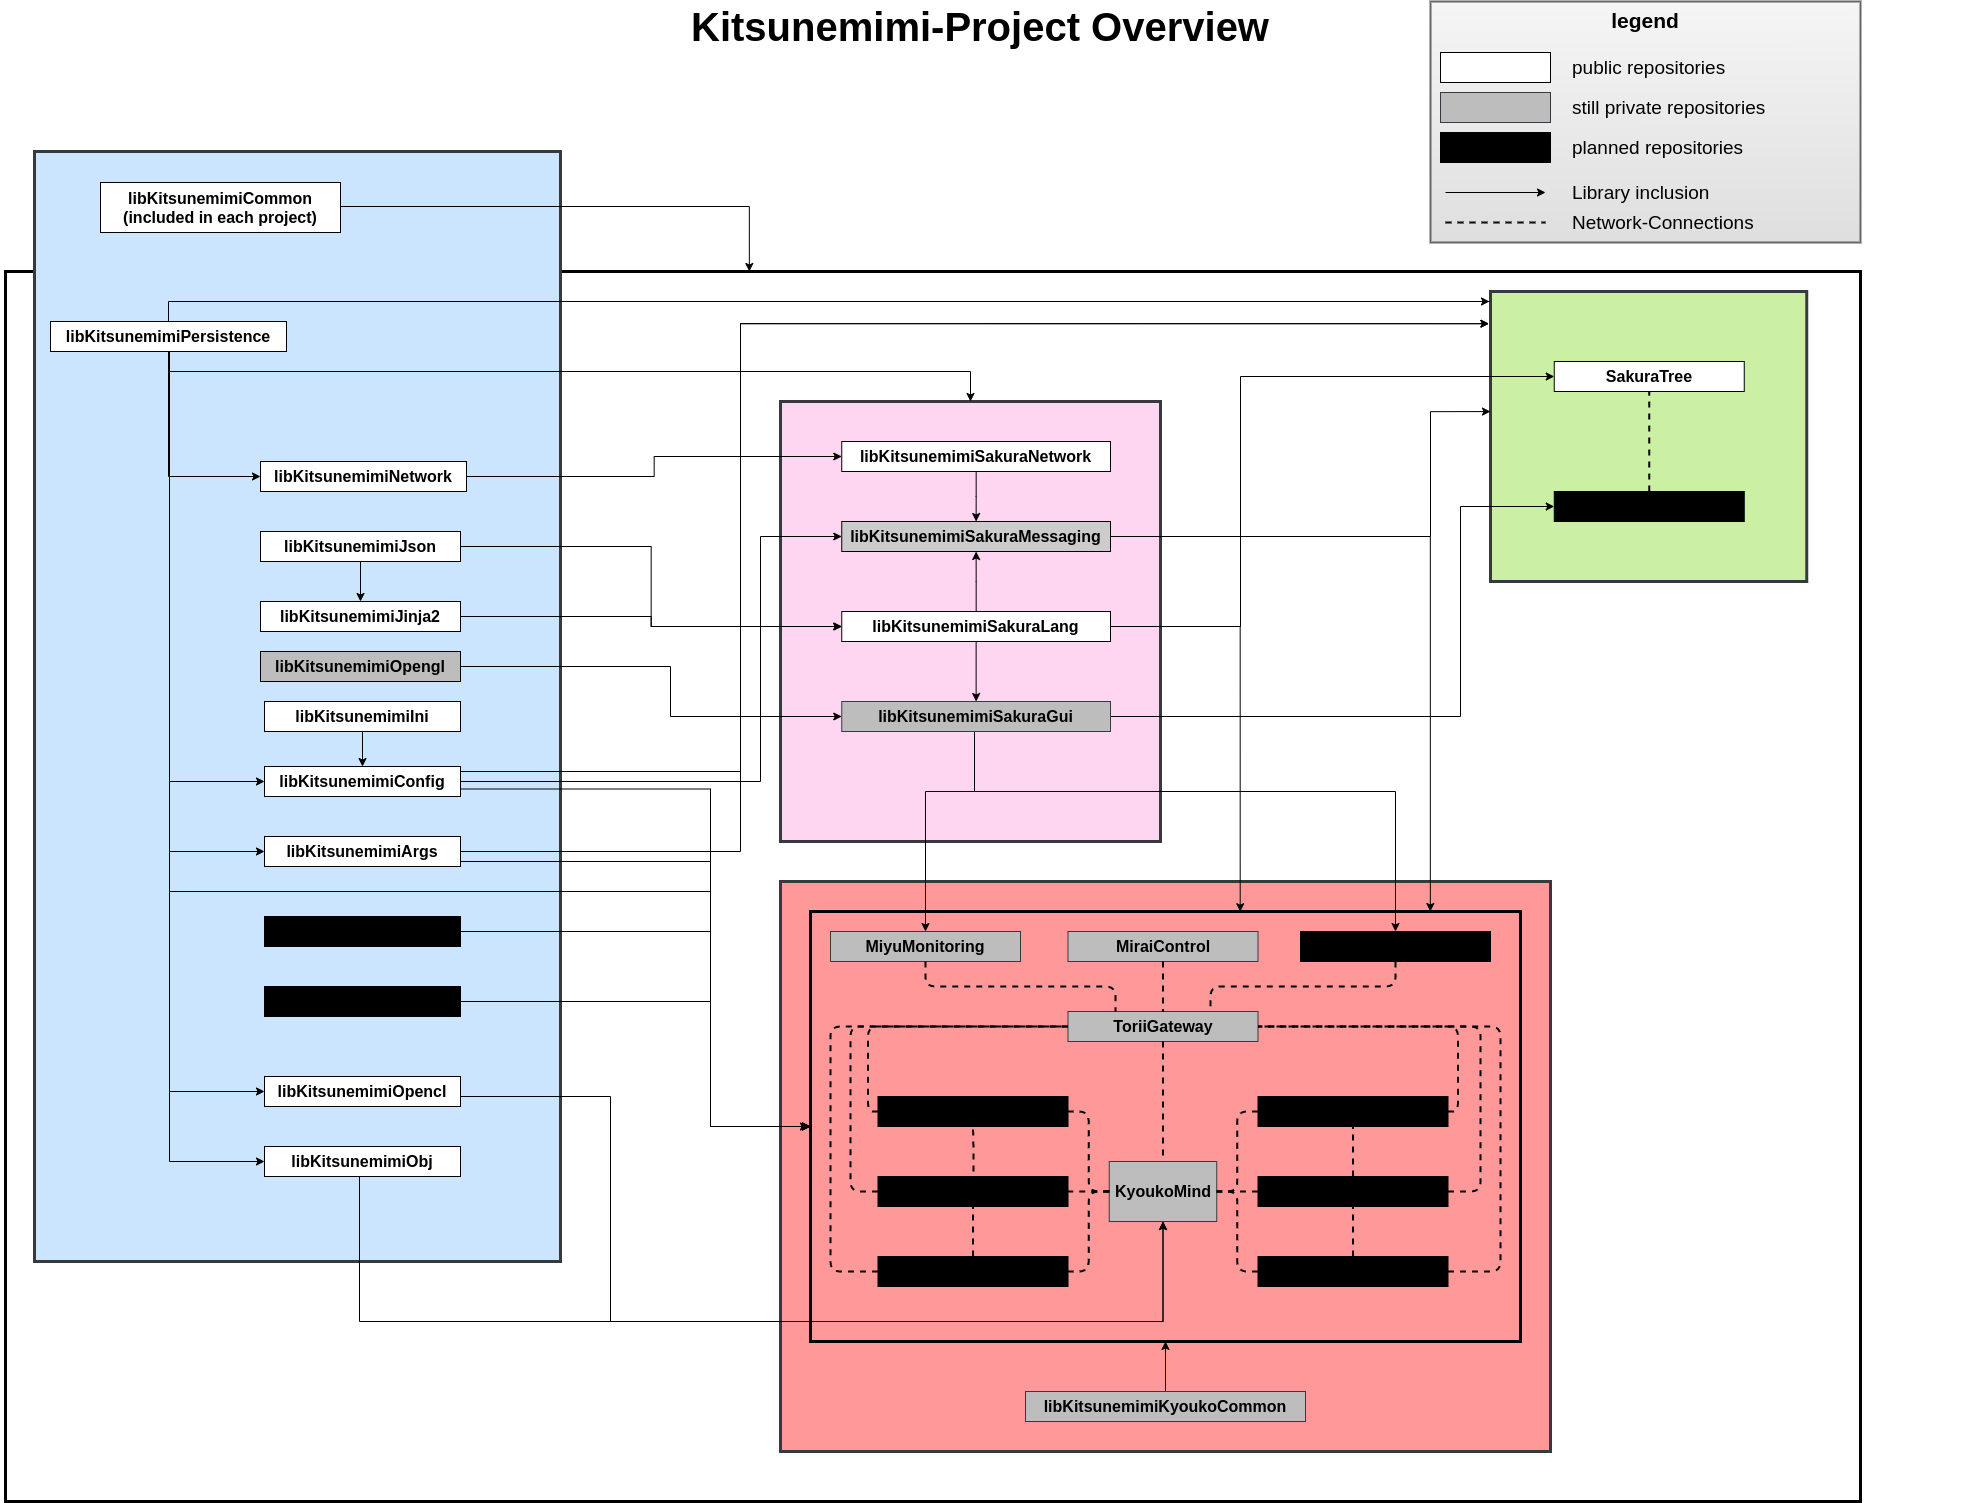
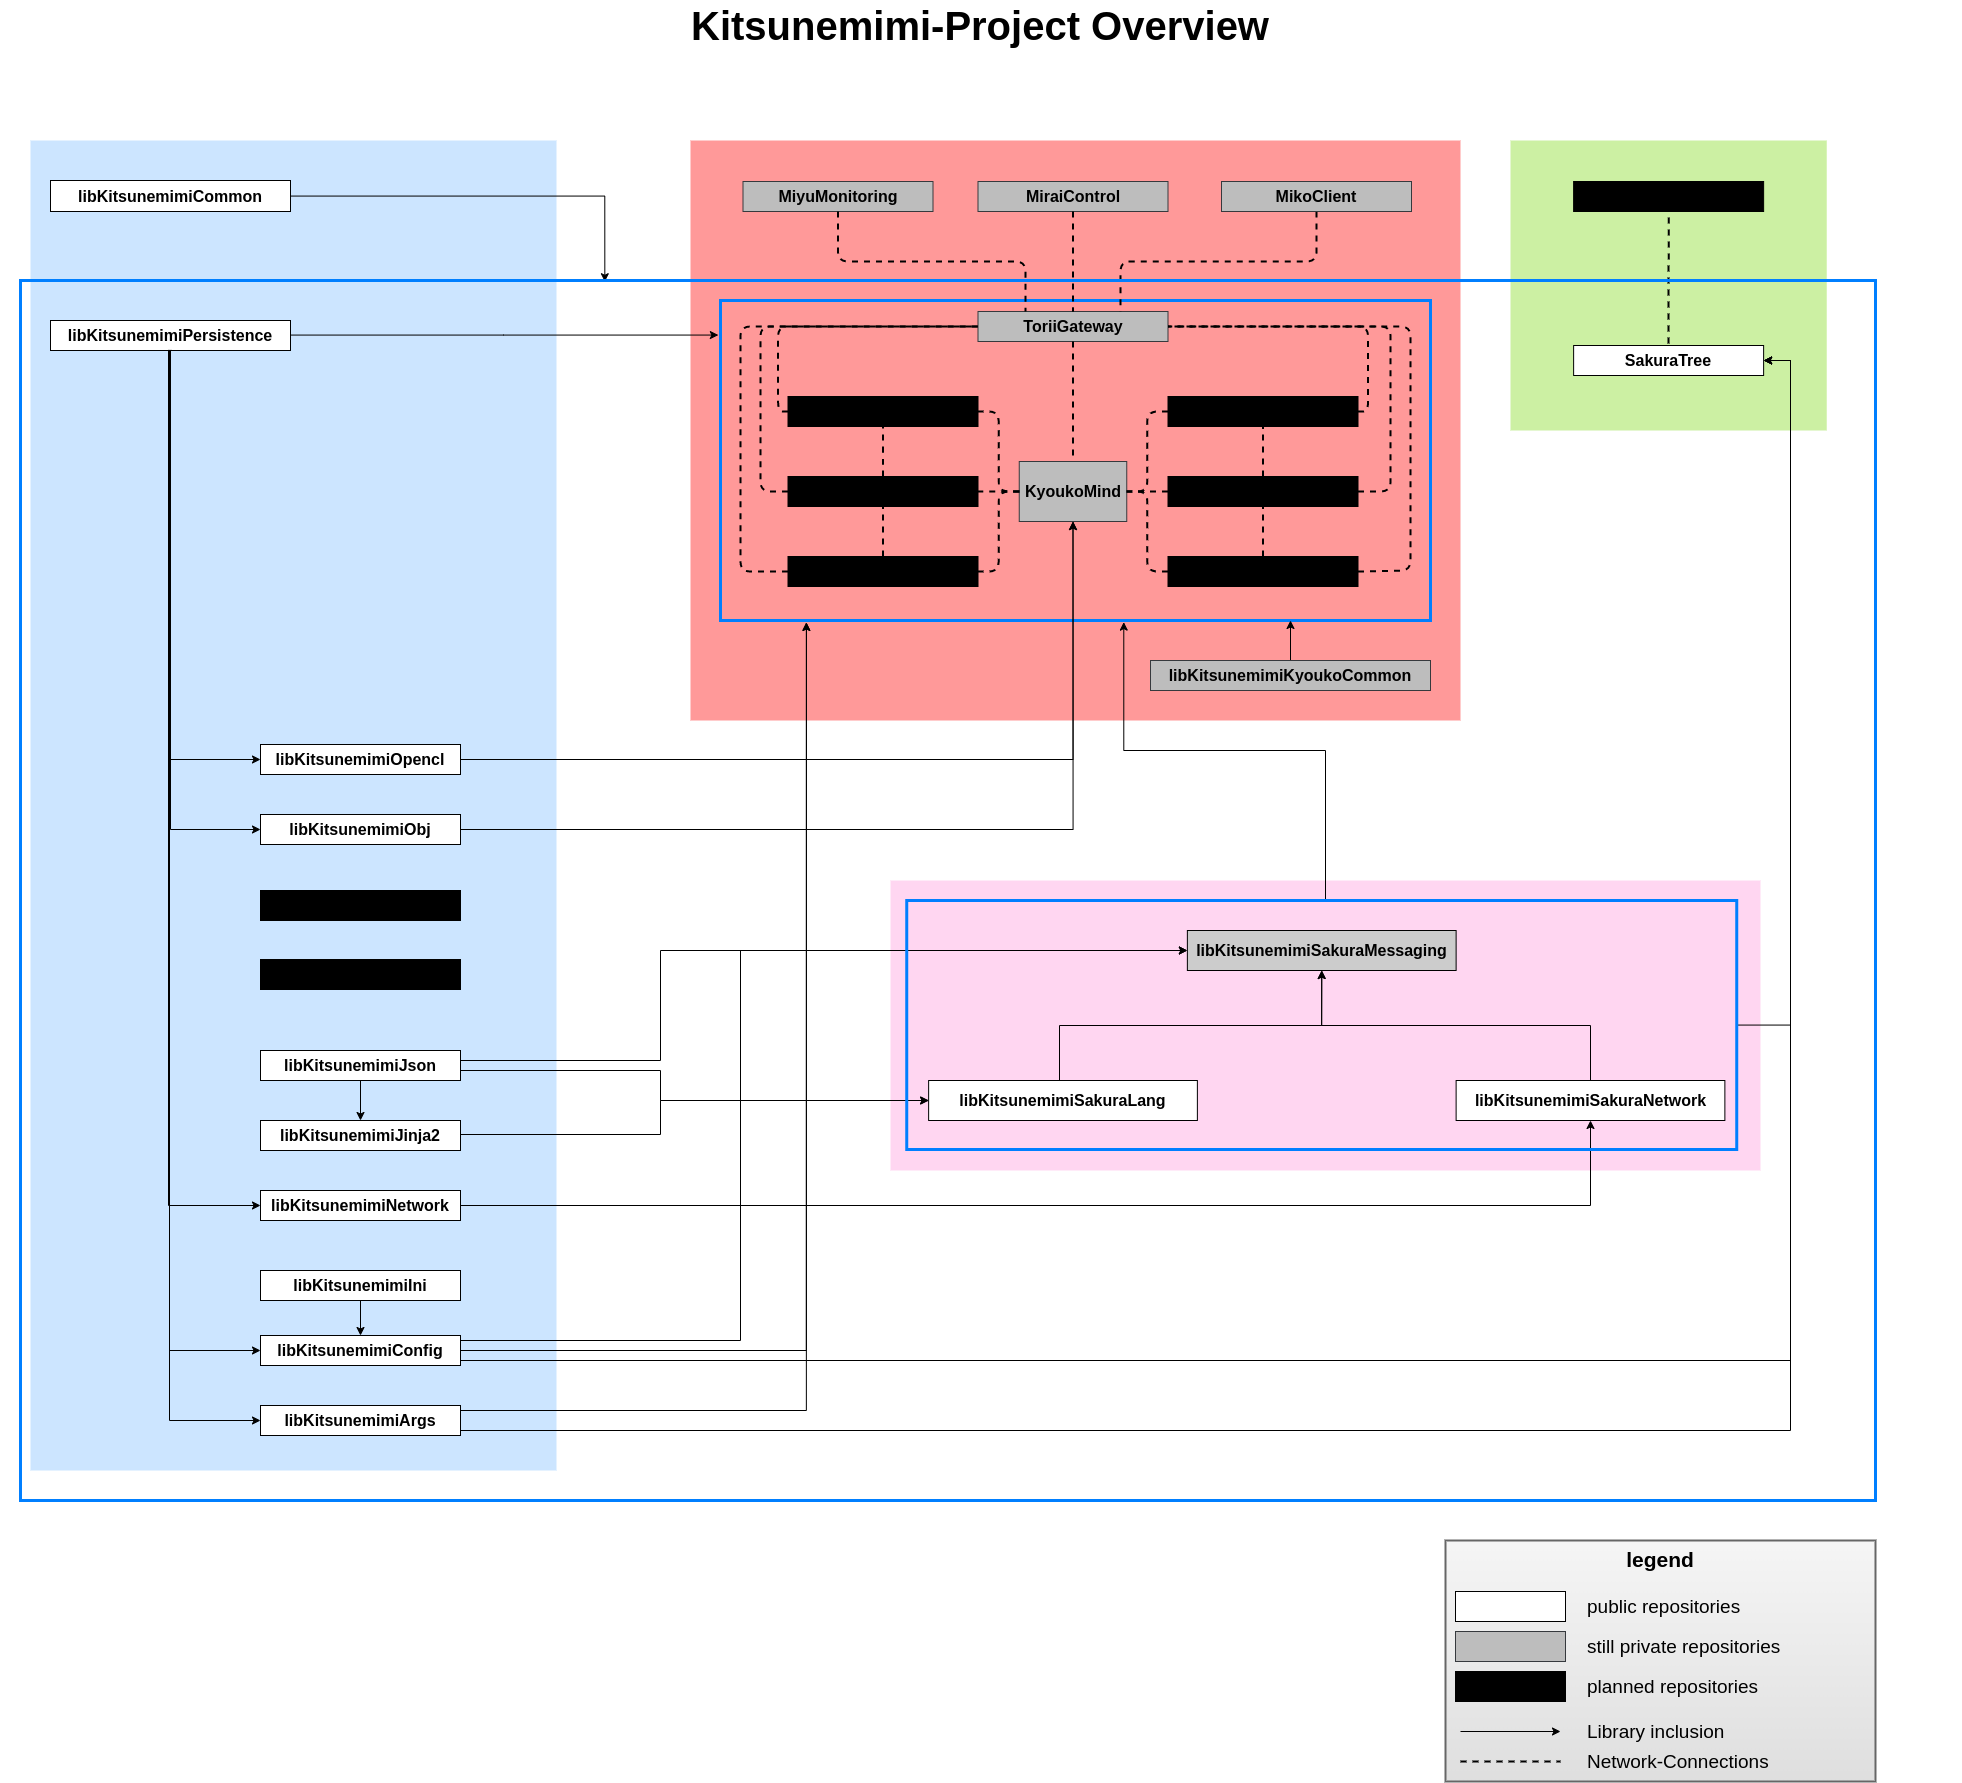
sync

diff --git a/README.md b/README.md
@@ -30,6 +30,8 @@ This is the main-project here, but it is still far away to be usable for any tas
 
 [MiyuMonitoring](#MiyuMonitoring)
 
+[MikoClient](#MikoClient)
+
 [MiraiControl](#MiraiControl)
 
 [libKitsunemimiKyoukoCommon](#libKitsunemimiKyoukoCommon)
@@ -44,13 +46,9 @@ Libraries for common usage inside of the Kitsunemimi-Project.
 
 [libKitsunemimiSakuraMessaging](#libKitsunemimiSakuraMessaging)
 
-[libKitsunemimiSakuraGui](#libKitsunemimiSakuraGui)
-
 ### generic libraries
 
 These simple generic libraries with wrapper, parser and functionalities I often use. Most of these stuff like CLI-argument-parser and so on, already exist in various implementations on github, but I wanded to create my own versions to have maximum control over the requirements and to have only a minimal set of funtions, which I really need.
-
-[libKitsunemimiOpengl](#libKitsunemimiOpengl)
 
 [libKitsunemimiObj](#libKitsunemimiObj)
 
@@ -461,44 +459,6 @@ libKitsunemimiCommon | master |  https://github.com/kitsudaiki/libKitsunemimiCom
 libKitsunemimiPersistence | master | https://github.com/kitsudaiki/libKitsunemimiPersistence.git
 
 
-## libKitsunemimiOpengl
-
-#### Metadata
-
-- **content**: Simple wrapper-library for some commonly used OpenGL-functionallities.
-
-- **current version**: -
-
-- **license**: `MIT`
-
-- **language**: `C++14`
-
-- **visibility**: `private`
-
-- **location**: `Github`
-
-#### Required build tools
-
-name | repository | version | task
---- | --- | --- | ---
-g++ | g++ | >= 6.0 | Compiler for the C++ code.
-make | make | >= 4.0 | process the make-file, which is created by qmake to build the programm with g++
-qmake | qt5-qmake | >= 5.0 | This package provides the tool qmake, which is similar to cmake and create the make-file for compilation.
-
-#### Required generic libraries
-
-name | repository | version | task
---- | --- | --- | ---
-libglew-dev  | libglew-dev | 2.x | -
-libsdl2-dev | libsdl2-dev | 2.x | -
-
-#### Required kitsunemimi libraries
-
-Repository-Name | Version-Tag | Download-Path
---- | --- | ---
-libKitsunemimiCommon | master |  https://github.com/kitsudaiki/libKitsunemimiCommon.git
-
-
 ## libKitsunemimiSakuraNetwork
 
 #### Metadata
@@ -629,48 +589,6 @@ libKitsunemimiConfig | v0.2.3 | https://github.com/kitsudaiki/libKitsunemimiConf
 libKitsunemimiSakuraLang | v0.6.0 | https://github.com/kitsudaiki/libKitsunemimiSakuraLang.git
 libKitsunemimiNetwork | v0.6.4 | https://github.com/kitsudaiki/libKitsunemimiNetwork.git
 libKitsunemimiSakuraNetwork | v0.3.0 | https://github.com/kitsudaiki/libKitsunemimiSakuraNetwork.git
-
-
-## libKitsunemimiSakuraGui
-
-#### Metadata
-
-- **content**: Create a graphical user interface in opengl based on the description coming from the sakura-language library.
-
-- **current version**: `-`
-
-- **license**: `Apache 2`
-
-- **language**: `C++14`
-
-- **visibility**: `private`
-
-- **location**: `Github`
-
-#### Required build tools
-
-name | repository | version | task
---- | --- | --- | ---
-g++ | g++ | >= 6.0 | Compiler for the C++ code.
-make | make | >= 4.0 | process the make-file, which is created by qmake to build the programm with g++
-qmake | qt5-qmake | >= 5.0 | This package provides the tool qmake, which is similar to cmake and create the make-file for compilation.
-
-#### Required generic libraries
-
-name | repository | version | task
---- | --- | --- | ---
-boost-filesystem library | libboost-filesystem-dev | 1.6x | interactions with files and directories on the system
-
-#### Required kitsunemimi libraries
-
-Repository-Name | Version-Tag | Download-Path
---- | --- | ---
-libKitsunemimiCommon | v0.15.1 |  https://github.com/kitsudaiki/libKitsunemimiCommon.git
-libKitsunemimiPersistence | v0.10.0 | https://github.com/kitsudaiki/libKitsunemimiPersistence.git
-libKitsunemimiJson | master | https://github.com/kitsudaiki/libKitsunemimiPersistence.git
-libKitsunemimiJinja2 | master | https://github.com/kitsudaiki/libKitsunemimiJinja2.git
-libKitsunemimiOpengl | master | - 
-libKitsunemimiSakuraLang | master | https://github.com/kitsudaiki/libKitsunemimiSakuraLang.git
 
 
 ## SakuraTree
@@ -836,8 +754,8 @@ GNU Bison | bison | >= 3.0 | Build the parser-code together with the lexer-code.
 name | repository | version | task
 --- | --- | --- | ---
 boost-filesystem library | libboost-filesystem-dev | 1.6x | interactions with files and directories on the system
+boost-beast library | (compiled form source) | 1.7x | provides http-server and websocket-server
 ssl library | libssl-dev | 1.1.x | encryption for tls connections
-cpprest | libcpprest-dev | 2.9.x | provides a REST-API
 
 #### Required kitsunemimi libraries
 
@@ -865,53 +783,42 @@ libKitsunemimiKyoukoCommon | master | -
 
 - **current version**: -
 
-- **language**: `C++14`
+- **language**: `JavaScript + HTML`
 
 - **visibility**: `private`
 
 - **location**: `self-hosted Gitlab`
 
-#### required tools to build
+#### Required packages
 
-name | repository | version | task
---- | --- | --- | ---
-g++ | g++ | >= 6.0 | Compiler for the C++ code.
-make | make | >= 4.0 | process the make-file, which is created by qmake to build the programm with g++
+- d3
+- booststrap
 
-- QT 5 with QML
 
-#### Required generic libraries
+## MikoClient
 
-name | repository | version | task
---- | --- | --- | ---
-boost-filesystem library | libboost-filesystem-dev | 1.6x | interactions with files and directories on the system
-ssl library | libssl-dev | 1.1.x | encryption for tls connections
+#### Metadata
 
-#### Required kitsunemimi libraries
+- **content**: Client to directly interact with the KyoukoMind-instance.
 
-Repository-Name | Version-Tag | Download-Path
---- | --- | ---
-libKitsunemimiCommon | v0.15.2 |  https://github.com/kitsudaiki/libKitsunemimiCommon.git
-libKitsunemimiPersistence | v0.10.0 | https://github.com/kitsudaiki/libKitsunemimiPersistence.git
-libKitsunemimiJson | v0.10.4 | https://github.com/kitsudaiki/libKitsunemimiJson.git
-libKitsunemimiJinja2 | v0.8.0 | https://github.com/kitsudaiki/libKitsunemimiJinja2.git
-libKitsunemimiIni | v0.4.6 | https://github.com/kitsudaiki/libKitsunemimiIni.git
-libKitsunemimiArgs | v0.2.1 | https://github.com/kitsudaiki/libKitsunemimiArgs.git
-libKitsunemimiConfig | v0.2.3 | https://github.com/kitsudaiki/libKitsunemimiConfig.git
-libKitsunemimiSakuraLang | v0.7.0 | https://github.com/kitsudaiki/libKitsunemimiSakuraLang.git
-libKitsunemimiNetwork | v0.6.4 | https://github.com/kitsudaiki/libKitsunemimiNetwork.git
-libKitsunemimiSakuraNetwork | v0.3.0 | https://github.com/kitsudaiki/libKitsunemimiSakuraNetwork.git
-libKitsunemimiSakuraMessaging | v0.2.1 | -
-libKitsunemimiKyoukoCommon | master | -
+- **current version**: -
+
+- **language**: `JavaScript + HTML`
+
+- **visibility**: `private`
+
+- **location**: `self-hosted Gitlab`
+
+#### Required packages
+
+- booststrap
 
 
 ## MiraiControl
 
 #### Metadata
 
-- **content**: Controlling client to interact with a KyoukoMind-instance.
-
-- **additional commentary**: Originally this was planned as c++ project like every other component in this project, but I also wanted to learn `go` programming and this component is only a cli tool to interact over https with the backend and so it can be easily separated and doesn't need anyone of my libraries. Because of this it is good use-case and first small project for me to learn `go`.
+- **content**: Controlling client to interact with a backend to check and set configurations.
 
 - **current version**: -
 
@@ -926,5 +833,3 @@ libKitsunemimiKyoukoCommon | master | -
 name | repository | version | task
 --- | --- | --- | ---
 go | golang | >= 1.7 | Compiler for the go code.
-
-
